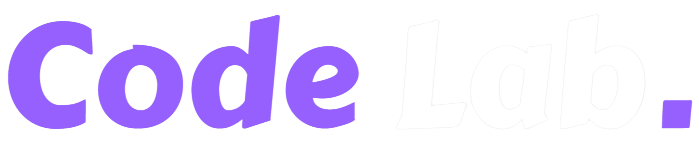
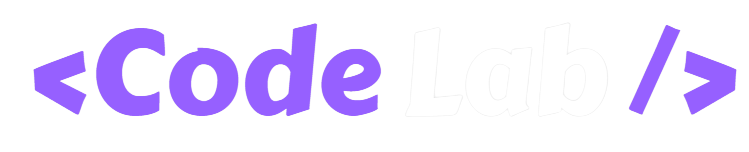
added some mobile responsiveness

Changed region(s): [[0.0, 0.0789, 0.5107, 0.8158], [0.8412, 0.1579, 0.9914, 0.8158]]

diff --git a/src/components/Banner.js b/src/components/Banner.js
@@ -13,9 +13,9 @@ function Banner(){
                     </path>
                </svg>
                <Container>
-                    <div className="d-flex flex-lg-row flex-column gap-5 justify-content-center mt-5 align-items-center">
+                    <div className="d-flex flex-lg-row flex-column-reverse gap-lg-5 gap-2 justify-content-center mt-5 align-items-center">
                          <div className="d-flex flex-column align-items-center gap-4">
-                              <img src={undraw} alt="bannerimg" className="img-fluid banner-img" />
+                              <img src={undraw} alt="bannerimg" className="img-fluid col-lg-9 col-xxl-10 col-md-8 banner-img" />
                               <Button variant="outline-light btn-lg" className="banner-btn">Start Learning</Button>{' '}
                          </div>
                          <div>
@@ -27,7 +27,7 @@ function Banner(){
                                
                                   
                               </div>
-                              <h1 className="brand-name mt-5">Code <span className="text-light">Lab</span> <span>.</span></h1>
+                              <h1 className="brand-name mt-5">&lt;Code <span className="text-light">Lab </span>/&gt;</h1>
                          </div>
                     </div>
                </Container>

diff --git a/src/assets/css/banner.css b/src/assets/css/banner.css
@@ -55,3 +55,78 @@ svg{
      font-family: 'DM Sans', sans-serif;
      font-weight: 400;
 }
+
+@media(max-width:462px){
+     .brand-name{
+          display: none;
+     }
+     
+     h1{
+          font-size: 24px;
+     }
+
+     h3{
+          font-size: 18px;
+     }
+
+     .banner-img{
+          height: 150px!important;
+          width: 150px!important;
+     }
+
+     .banner-btn{
+          padding: 10px;
+          font-size: 18px;
+     }
+}
+
+@media(max-width:991px){
+     .brand-name{
+          display: none;
+     }
+
+     .banner-img{
+          height: 200px;
+          width: 200px;
+     }
+
+     .nav-list{
+          flex-direction: column;
+          gap: 1rem!important;
+          position: absolute;
+          left: 0;
+          right: 0;
+          top: 85%;
+          text-align: center;
+          background-color: #9f6fffee!important;
+          width: 100%;
+          padding: 2rem;
+          color: rgba(245, 245, 245, 0.9);
+          border: 1px solid rgba(245, 245, 245, 0.562);
+          border-radius: 8px;
+    
+     }
+
+     .member-btn{
+          display: none;
+     }
+
+     .fa-bars{
+          display: block!important;
+     }
+
+     .fa-user{
+          display: block!important;
+     }
+
+     
+
+}
+
+.fa-bars{
+     display: none;
+}
+
+.fa-user{
+     display: none;
+}

diff --git a/src/components/AppNavbar.js b/src/components/AppNavbar.js
@@ -1,6 +1,7 @@
 import navbar from '../assets/css/navbar.css'
 import Button from 'react-bootstrap/Button';
 import brand from '../assets/images/brand.png'
+import { useRef } from 'react-router-dom'
 
 
 function AppNavbar() {
@@ -14,8 +15,10 @@ function AppNavbar() {
             <li>About</li>
             <li>Contact</li>
         </ul>
-        <div>
-          <Button variant="outline-light btn-lg" className="custom-bg3">Member</Button>{' '}
+        <div className="d-flex align-items-center justify-content-center gap-3">
+          <i className="fa fa-user h2 mb-0"></i>
+          <Button variant="outline-light btn-lg" className="custom-bg3 member-btn">Member</Button>{' '}
+          <i className="fa fa-bars h1 pe-2 mb-0"></i>
         </div>
       </nav>
   );

diff --git a/src/assets/css/navbar.css b/src/assets/css/navbar.css
@@ -30,8 +30,8 @@ nav{
 }
 
 .img-fix{
-     height: 27px;
-     width: 125px;
+     height: 32px;
+     width: 150px;
 }
 
 .custom-bg2{
@@ -47,4 +47,12 @@ nav{
 .custom-bg3:hover{
      background-color: rgba(245, 245, 245, 0.747)!important;
      color: #9560ffc5!important;  
+}
+
+.fa-user{
+     color: #9560ffc5!important;
+}
+
+.fa-bars{
+     color: rgba(250, 250, 250, 0.9);
 }

diff --git a/public/index.html b/public/index.html
@@ -3,6 +3,8 @@
   <head>
     <meta charset="utf-8" />
     <meta name="viewport" content="width=device-width, initial-scale=1" />
+    <!-- Font awesome icons -->
+    <link rel="stylesheet" href="https://cdnjs.cloudflare.com/ajax/libs/font-awesome/4.7.0/css/font-awesome.min.css">
     <title>React App</title>
   </head>
   <body>
